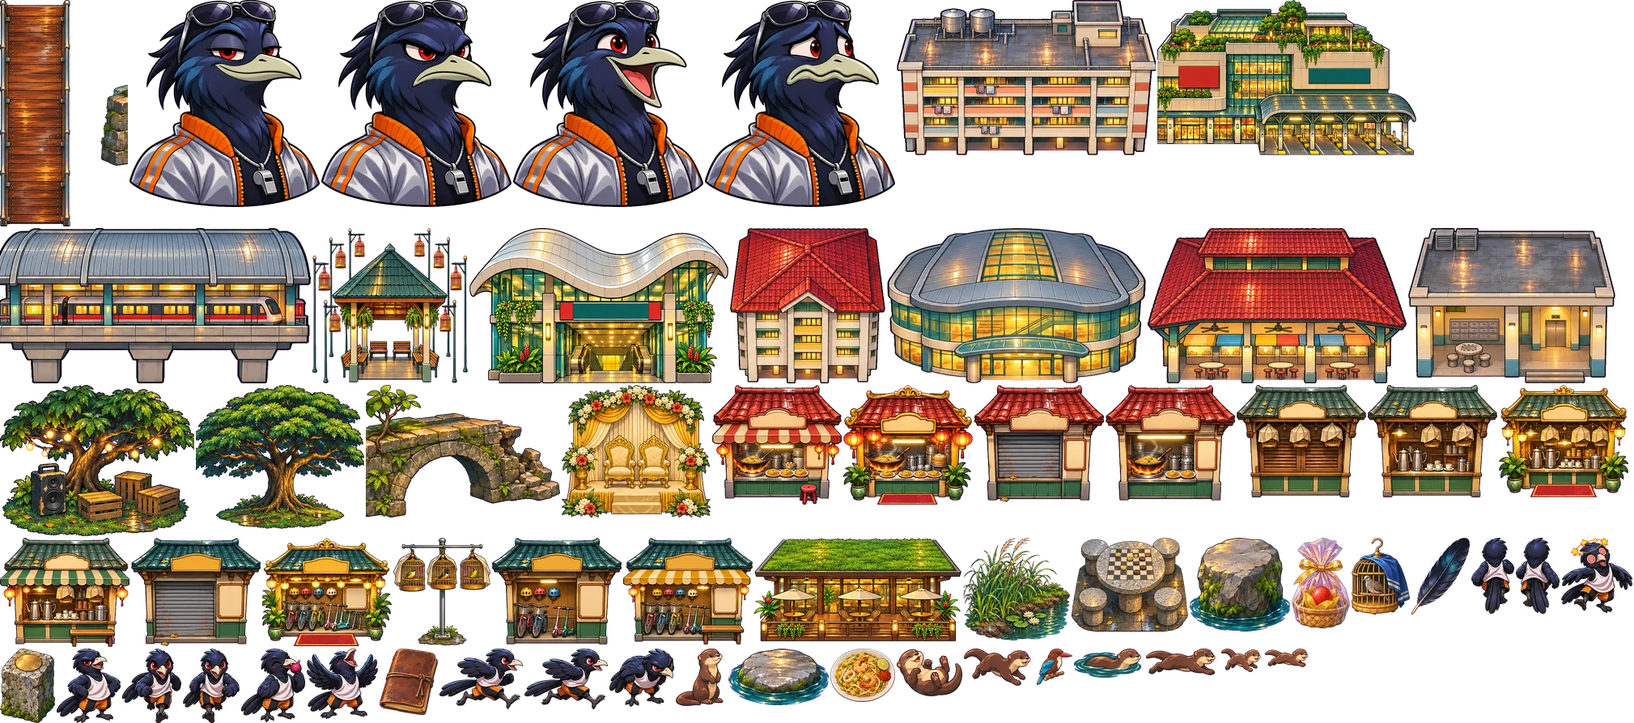
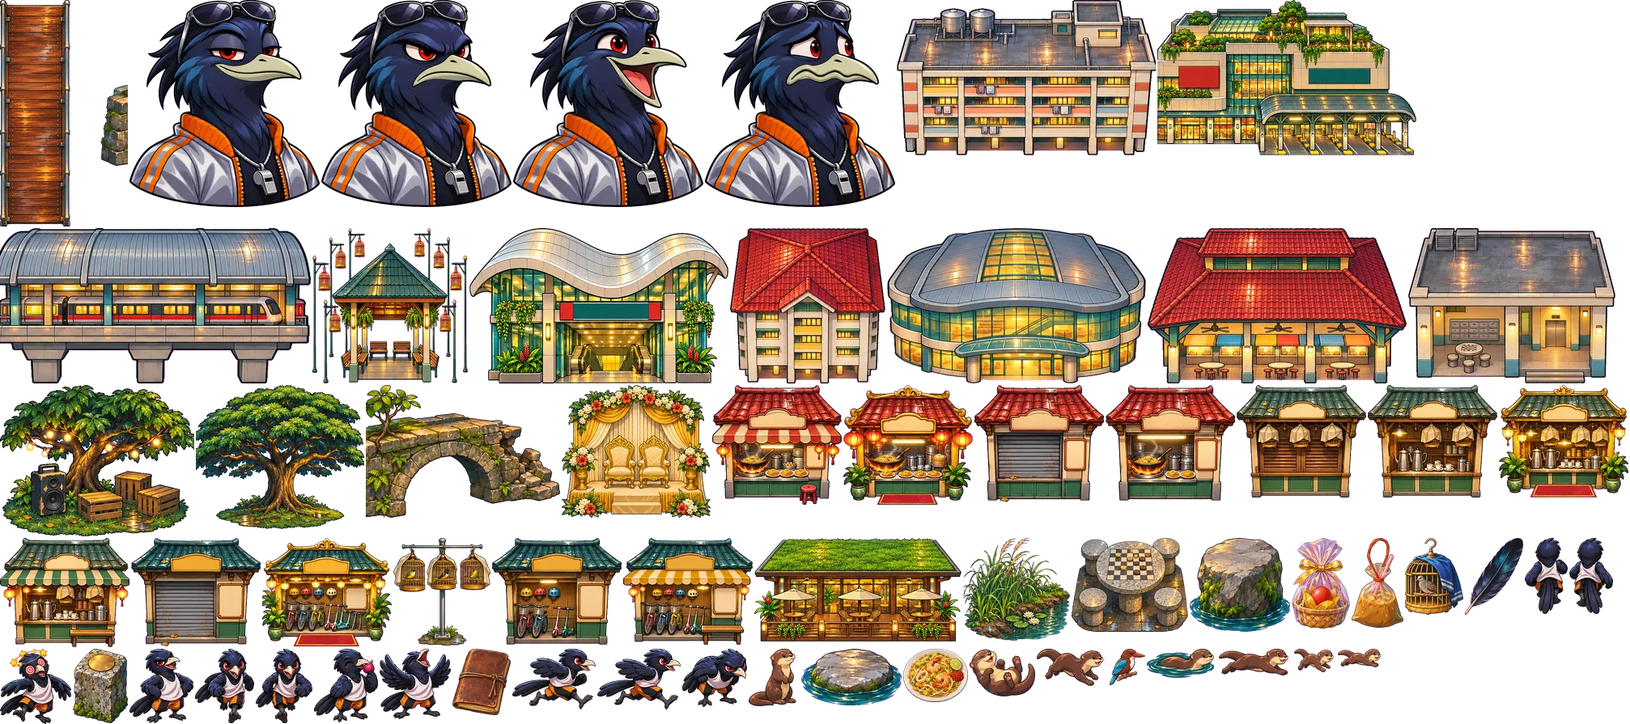
Jade Street pass 26: paint the kopi bag, clear the stands, older tests know Bishan
The Ang Mo Kio kopi round now carries a painted kopi in a bag (Codex,
packed into the Bishan atlas). The hokkien mee and bike hire stands move
a tile onto clear ground away from the market. Older tests walk Bishan
from its station, count its stations, bikes and properties, and allow
the extra twenty minutes the three new properties add to the empire.

diff --git a/lib/jade-art.ts b/lib/jade-art.ts
@@ -1,7 +1,7 @@
 // Generated by scripts/jade-art.py from the Codex paintings; do not edit by hand.
 // FRAMES: name -> [atlas, x, y, w, h] in atlas pixels (2 px per world unit). TEXTURES: seamless 256 px ground tiles.
 export const ATLASES = ['atlas-dora', 'atlas-enzo', 'atlas-dora2', 'atlas-enzo2', 'atlas-south', 'atlas-south2', 'atlas-empire', 'atlas-empire2', 'atlas-city2', 'atlas-far', 'atlas-far2', 'atlas-east', 'atlas-resort', 'atlas-resort2', 'atlas-east2', 'atlas-isle', 'atlas-isle2', 'atlas-land', 'atlas-cast-isle', 'atlas-cast-east', 'atlas-cast-resort', 'atlas-cast-far', 'atlas-cast-south', 'atlas-cast-town', 'atlas-city', 'atlas-rides', 'atlas-gear', 'atlas-jobs', 'atlas-aware', 'atlas-faces-isle', 'atlas-faces-east', 'atlas-faces-resort', 'atlas-faces-far', 'atlas-faces-south', 'atlas-faces-town', 'atlas-set', 'atlas-set2', 'atlas-folk', 'atlas-ui', 'atlas-sg', 'atlas-sg2', 'atlas-mg', 'atlas-props2', 'atlas-props', 'atlas-rides15', 'atlas-act16', 'atlas-cast16-far', 'atlas-cast16-south', 'atlas-stands16', 'atlas-lake16', 'atlas-ubin', 'atlas-boars', 'atlas-cast-ubin', 'atlas-act17', 'atlas-ui17', 'atlas-kallang', 'atlas-cast-kallang', 'atlas-act18', 'atlas-ui18', 'atlas-mandai', 'atlas-cast-mandai', 'atlas-act19', 'atlas-ui19', 'atlas-act20', 'atlas-gig20-south', 'atlas-gig20-east', 'atlas-gig20-far', 'atlas-ride20', 'atlas-lory19b', 'atlas-islands', 'atlas-cast-islands', 'atlas-act21', 'atlas-ui21', 'atlas-bukit', 'atlas-cast-bukit', 'atlas-act22', 'atlas-ui22', 'atlas-act23', 'atlas-gig23-south', 'atlas-gig23-ubin', 'atlas-gig23-kallang', 'atlas-gig23-islands', 'atlas-gig23-east', 'atlas-kranji', 'atlas-cast-kranji', 'atlas-act24', 'atlas-ui24', 'atlas-punggol', 'atlas-cast-punggol', 'atlas-act25', 'atlas-ui25', 'atlas-bishan', 'atlas-cast-bishan', 'atlas-act26', 'atlas-ui26'] as const;
-export const ATLAS_SIZE: Record<string, [number, number]> = {'atlas-ui26': [390, 125], 'atlas-act26': [1300, 113], 'atlas-cast-bishan': [2045, 744], 'atlas-bishan': [2019, 894], 'atlas-ui25': [827, 128], 'atlas-act25': [1316, 119], 'atlas-cast-punggol': [2024, 757], 'atlas-punggol': [2046, 1027], 'atlas-ui24': [992, 128], 'atlas-act24': [1204, 133], 'atlas-cast-kranji': [2043, 765], 'atlas-kranji': [2040, 1002], 'atlas-gig23-east': [702, 144], 'atlas-gig23-islands': [202, 120], 'atlas-gig23-kallang': [122, 92], 'atlas-gig23-ubin': [88, 120], 'atlas-gig23-south': [122, 102], 'atlas-act23': [782, 122], 'atlas-ui22': [1000, 128], 'atlas-act22': [1499, 125], 'atlas-cast-bukit': [2027, 624], 'atlas-bukit': [2036, 634], 'atlas-ui21': [960, 128], 'atlas-act21': [1604, 116], 'atlas-cast-islands': [2026, 742], 'atlas-islands': [2044, 1053], 'atlas-lory19b': [571, 137], 'atlas-ride20': [1575, 160], 'atlas-gig20-far': [236, 120], 'atlas-gig20-east': [122, 106], 'atlas-gig20-south': [328, 120], 'atlas-act20': [696, 127], 'atlas-ui19': [985, 128], 'atlas-act19': [1610, 132], 'atlas-cast-mandai': [1984, 645], 'atlas-mandai': [2048, 1013], 'atlas-ui18': [996, 128], 'atlas-act18': [1508, 120], 'atlas-cast-kallang': [2048, 648], 'atlas-kallang': [2044, 1530], 'atlas-ui17': [978, 128], 'atlas-act17': [1945, 239], 'atlas-cast-ubin': [2028, 774], 'atlas-boars': [2008, 229], 'atlas-ubin': [2019, 836], 'atlas-lake16': [864, 562], 'atlas-stands16': [1944, 333], 'atlas-cast16-south': [1423, 256], 'atlas-cast16-far': [1393, 256], 'atlas-act16': [1402, 113], 'atlas-rides15': [2048, 529], 'atlas-dora': [2048, 558], 'atlas-enzo': [2048, 558], 'atlas-dora2': [2048, 946], 'atlas-enzo2': [2048, 938], 'atlas-south': [2048, 1932], 'atlas-south2': [2048, 840], 'atlas-empire': [2048, 465], 'atlas-empire2': [2048, 1738], 'atlas-city2': [2048, 1928], 'atlas-far': [2048, 2448], 'atlas-far2': [2048, 2434], 'atlas-east': [2048, 1608], 'atlas-resort': [2048, 1092], 'atlas-resort2': [2048, 360], 'atlas-east2': [2048, 768], 'atlas-isle': [2048, 1802], 'atlas-isle2': [2048, 1135], 'atlas-land': [2048, 2308], 'atlas-cast-isle': [2048, 251], 'atlas-cast-east': [2048, 243], 'atlas-cast-resort': [2048, 145], 'atlas-cast-far': [2048, 267], 'atlas-cast-south': [2048, 234], 'atlas-cast-town': [2048, 1001], 'atlas-city': [2048, 4240], 'atlas-rides': [2048, 382], 'atlas-gear': [2048, 568], 'atlas-jobs': [2048, 1256], 'atlas-aware': [2048, 400], 'atlas-faces-isle': [2048, 514], 'atlas-faces-east': [2048, 772], 'atlas-faces-resort': [2048, 256], 'atlas-faces-far': [2048, 772], 'atlas-faces-south': [2048, 514], 'atlas-faces-town': [2048, 2814], 'atlas-set': [2048, 515], 'atlas-set2': [2048, 2406], 'atlas-folk': [2048, 2370], 'atlas-ui': [2048, 1793], 'atlas-sg': [2048, 1280], 'atlas-sg2': [2048, 398], 'atlas-mg': [2048, 1031], 'atlas-props2': [2048, 1474], 'atlas-props': [2048, 2074]};
+export const ATLAS_SIZE: Record<string, [number, number]> = {'atlas-ui26': [390, 125], 'atlas-act26': [1300, 113], 'atlas-cast-bishan': [2045, 744], 'atlas-bishan': [2014, 895], 'atlas-ui25': [827, 128], 'atlas-act25': [1316, 119], 'atlas-cast-punggol': [2024, 757], 'atlas-punggol': [2046, 1027], 'atlas-ui24': [992, 128], 'atlas-act24': [1204, 133], 'atlas-cast-kranji': [2043, 765], 'atlas-kranji': [2040, 1002], 'atlas-gig23-east': [702, 144], 'atlas-gig23-islands': [202, 120], 'atlas-gig23-kallang': [122, 92], 'atlas-gig23-ubin': [88, 120], 'atlas-gig23-south': [122, 102], 'atlas-act23': [782, 122], 'atlas-ui22': [1000, 128], 'atlas-act22': [1499, 125], 'atlas-cast-bukit': [2027, 624], 'atlas-bukit': [2036, 634], 'atlas-ui21': [960, 128], 'atlas-act21': [1604, 116], 'atlas-cast-islands': [2026, 742], 'atlas-islands': [2044, 1053], 'atlas-lory19b': [571, 137], 'atlas-ride20': [1575, 160], 'atlas-gig20-far': [236, 120], 'atlas-gig20-east': [122, 106], 'atlas-gig20-south': [328, 120], 'atlas-act20': [696, 127], 'atlas-ui19': [985, 128], 'atlas-act19': [1610, 132], 'atlas-cast-mandai': [1984, 645], 'atlas-mandai': [2048, 1013], 'atlas-ui18': [996, 128], 'atlas-act18': [1508, 120], 'atlas-cast-kallang': [2048, 648], 'atlas-kallang': [2044, 1530], 'atlas-ui17': [978, 128], 'atlas-act17': [1945, 239], 'atlas-cast-ubin': [2028, 774], 'atlas-boars': [2008, 229], 'atlas-ubin': [2019, 836], 'atlas-lake16': [864, 562], 'atlas-stands16': [1944, 333], 'atlas-cast16-south': [1423, 256], 'atlas-cast16-far': [1393, 256], 'atlas-act16': [1402, 113], 'atlas-rides15': [2048, 529], 'atlas-dora': [2048, 558], 'atlas-enzo': [2048, 558], 'atlas-dora2': [2048, 946], 'atlas-enzo2': [2048, 938], 'atlas-south': [2048, 1932], 'atlas-south2': [2048, 840], 'atlas-empire': [2048, 465], 'atlas-empire2': [2048, 1738], 'atlas-city2': [2048, 1928], 'atlas-far': [2048, 2448], 'atlas-far2': [2048, 2434], 'atlas-east': [2048, 1608], 'atlas-resort': [2048, 1092], 'atlas-resort2': [2048, 360], 'atlas-east2': [2048, 768], 'atlas-isle': [2048, 1802], 'atlas-isle2': [2048, 1135], 'atlas-land': [2048, 2308], 'atlas-cast-isle': [2048, 251], 'atlas-cast-east': [2048, 243], 'atlas-cast-resort': [2048, 145], 'atlas-cast-far': [2048, 267], 'atlas-cast-south': [2048, 234], 'atlas-cast-town': [2048, 1001], 'atlas-city': [2048, 4240], 'atlas-rides': [2048, 382], 'atlas-gear': [2048, 568], 'atlas-jobs': [2048, 1256], 'atlas-aware': [2048, 400], 'atlas-faces-isle': [2048, 514], 'atlas-faces-east': [2048, 772], 'atlas-faces-resort': [2048, 256], 'atlas-faces-far': [2048, 772], 'atlas-faces-south': [2048, 514], 'atlas-faces-town': [2048, 2814], 'atlas-set': [2048, 515], 'atlas-set2': [2048, 2406], 'atlas-folk': [2048, 2370], 'atlas-ui': [2048, 1793], 'atlas-sg': [2048, 1280], 'atlas-sg2': [2048, 398], 'atlas-mg': [2048, 1031], 'atlas-props2': [2048, 1474], 'atlas-props': [2048, 2074]};
 export const FRAMES: Record<string, [number, number, number, number, number]> = {
   'angpao': [43, 784, 2018, 44, 34],
   'atom': [5, 316, 432, 140, 168],
@@ -3294,48 +3294,49 @@ export const FRAMES: Record<string, [number, number, number, number, number]> = 
   'bs-birdpole': [91, 486, 665, 120, 133],
   'bs-birdshelter': [91, 386, 282, 192, 192],
   'bs-bishanstn': [91, 580, 282, 320, 192],
-  'bs-book': [91, 469, 802, 72, 82],
+  'bs-book': [91, 559, 802, 72, 82],
   'bs-bshhdb': [91, 902, 282, 192, 192],
   'bs-cafe': [91, 932, 665, 256, 128],
-  'bs-cage': [91, 1670, 665, 72, 95],
+  'bs-cage': [91, 1736, 665, 72, 95],
   'bs-chess': [91, 1324, 665, 144, 116],
-  'bs-feather': [91, 1744, 665, 72, 95],
+  'bs-feather': [91, 1810, 665, 72, 95],
   'bs-footbridge': [91, 0, 0, 158, 280],
   'bs-j8': [91, 1096, 282, 320, 192],
-  'bs-kingfisher': [91, 1281, 802, 44, 45],
+  'bs-kingfisher': [91, 1371, 802, 44, 45],
   'bs-koelcamp': [91, 0, 476, 240, 187],
+  'bs-kopi': [91, 1670, 665, 64, 111],
   'bs-market': [91, 1418, 282, 320, 192],
-  'bs-mee': [91, 1026, 802, 80, 66],
+  'bs-mee': [91, 1116, 802, 80, 66],
   'bs-oldbridge': [91, 452, 476, 240, 164],
-  'bs-otter-0': [91, 1191, 802, 88, 46],
-  'bs-otter-1': [91, 1416, 802, 91, 33],
-  'bs-otter-roll': [91, 1108, 802, 81, 59],
-  'bs-otter-sit': [91, 835, 802, 63, 71],
-  'bs-otter-swim': [91, 1327, 802, 87, 36],
+  'bs-otter-0': [91, 1281, 802, 88, 46],
+  'bs-otter-1': [91, 1506, 802, 91, 33],
+  'bs-otter-roll': [91, 1198, 802, 81, 59],
+  'bs-otter-sit': [91, 925, 802, 63, 71],
+  'bs-otter-swim': [91, 1417, 802, 87, 36],
   'bs-pelamin': [91, 694, 476, 184, 164],
-  'bs-pup-0': [91, 1509, 802, 52, 29],
-  'bs-pup-1': [91, 1563, 802, 57, 23],
+  'bs-pup-0': [91, 1599, 802, 52, 29],
+  'bs-pup-1': [91, 1653, 802, 57, 23],
   'bs-raintree': [91, 242, 476, 208, 178],
   'bs-reeds': [91, 1190, 665, 132, 127],
   'bs-stonehi': [91, 1470, 665, 124, 116],
-  'bs-stonelo': [91, 900, 802, 124, 70],
-  'bs-survey': [91, 0, 802, 68, 92],
+  'bs-stonelo': [91, 990, 802, 124, 70],
+  'bs-survey': [91, 90, 802, 68, 92],
   'bs-voiddeck': [91, 1740, 282, 256, 192],
   'face-koel': [91, 160, 0, 235, 256],
   'face-koel-cross': [91, 397, 0, 235, 256],
   'face-koel-happy': [91, 634, 0, 235, 256],
   'face-koel-worried': [91, 871, 0, 235, 256],
-  'koel-dizzy': [91, 1929, 665, 88, 93],
-  'koel-munch': [91, 298, 802, 79, 91],
-  'koel-peer': [91, 753, 802, 80, 72],
-  'koel-run-0': [91, 543, 802, 103, 75],
-  'koel-run-1': [91, 648, 802, 103, 75],
-  'koel-sing': [91, 379, 802, 88, 87],
-  'koel-taunt': [91, 70, 802, 79, 92],
-  'koel-walk-down-0': [91, 151, 802, 73, 92],
-  'koel-walk-down-1': [91, 226, 802, 70, 92],
-  'koel-walk-up-0': [91, 1818, 665, 53, 94],
-  'koel-walk-up-1': [91, 1873, 665, 54, 94],
+  'koel-dizzy': [91, 0, 802, 88, 93],
+  'koel-munch': [91, 388, 802, 79, 91],
+  'koel-peer': [91, 843, 802, 80, 72],
+  'koel-run-0': [91, 633, 802, 103, 75],
+  'koel-run-1': [91, 738, 802, 103, 75],
+  'koel-sing': [91, 469, 802, 88, 87],
+  'koel-taunt': [91, 160, 802, 79, 92],
+  'koel-walk-down-0': [91, 241, 802, 73, 92],
+  'koel-walk-down-1': [91, 316, 802, 70, 92],
+  'koel-walk-up-0': [91, 1884, 665, 53, 94],
+  'koel-walk-up-1': [91, 1939, 665, 54, 94],
   'face-kijang': [92, 0, 0, 224, 256],
   'face-kijang-cross': [92, 226, 0, 223, 256],
   'face-kijang-happy': [92, 451, 0, 223, 256],
@@ -6701,6 +6702,7 @@ export const FILL: Record<string, number> = {
   'bs-j8': 0.844,
   'bs-kingfisher': 0.476,
   'bs-koelcamp': 0.723,
+  'bs-kopi': 0.511,
   'bs-market': 0.857,
   'bs-mee': 0.8,
   'bs-oldbridge': 0.529,
@@ -6798,4 +6800,4 @@ export const FILL: Record<string, number> = {
 export const TEXTURES = ['road', 'walk', 'plaza', 'grass', 'canal', 'plank', 'temple', 'sea', 'dock', 'neon', 'path', 'cobble', 'xway', 'hdb', 'rubber', 'granite', 'deck', 'bay', 'india', 'glam', 'sand', 'resort', 'lagoon', 'fort', 'katong', 'orchard', 'tarmac', 'cycle', 'jewel', 'changi', 'tiong', 'quay', 'jurong', 'garden', 'dirt', 'kampong', 'mud', 'forest', 'quarry', 'rock', 'hub', 'prom', 'apron', 'basin', 'resv', 'board', 'jungle', 'laterite', 'reef', 'shoal', 'coral', 'islepath', 'summit', 'lawn', 'railbed', 'swan', 'mudflat', 'mangrove', 'field', 'woods', 'marsh', 'needles', 'pgdeck', 'riverbank', 'amk', 'shallows'] as const;
 export const PLAIN: Record<string, [number, number]> = {'bg-stall-bishan': [1536, 1024], 'bg-chapter-17': [1536, 1024], 'bg-stall-punggol': [1536, 1024], 'bg-chapter-16': [1536, 1024], 'bg-stall-kranji': [1536, 1024], 'bg-chapter-15': [1536, 1024], 'bg-stall-bukit': [1536, 1024], 'bg-chapter-14': [1536, 1024], 'bg-stall-islands': [1536, 1024], 'bg-chapter-13': [1536, 1024], 'bg-stall-mandai': [1536, 1024], 'bg-chapter-12': [1536, 1024], 'bg-stall-kallang': [1536, 1024], 'bg-chapter-11': [1536, 1024], 'bg-stall-pulau': [1536, 1024], 'bg-chapter-10': [1536, 1024], 'bg-title': [1536, 1024], 'bg-mg-lock': [1280, 853], 'bg-mg-wire': [1280, 853], 'bg-mg-switch': [1280, 853], 'bg-mg-wok': [1280, 853], 'bg-mg-board': [1280, 853], 'bg-mg-haggle': [1280, 853], 'bg-mg-kopi': [1280, 853], 'bg-mg-safe': [1280, 853], 'bg-map-paper': [1024, 683], 'bg-loading': [1280, 853], 'bg-stall-market': [1280, 853], 'bg-stall-temple': [1280, 853], 'bg-stall-canal': [1280, 853], 'bg-stall-docks': [1280, 853], 'bg-stall-arcade': [1280, 853], 'bg-story-1': [1280, 853], 'bg-story-2': [1280, 853], 'bg-story-3': [1280, 853], 'bg-story-4': [1280, 853], 'bg-chapter-1': [1280, 853], 'bg-chapter-2': [1280, 853], 'bg-chapter-3': [1280, 853], 'bg-chapter-4': [1280, 853], 'bg-chapter-5': [1280, 853], 'bg-end-1': [1280, 853], 'bg-end-2': [1280, 853], 'bg-end-3': [1280, 853], 'bg-gadget-shop': [1280, 853], 'bg-chapter-6': [1280, 853], 'bg-end-4': [1280, 853], 'bg-mrt-ride': [1280, 853], 'bg-stall-heartland': [1280, 853], 'bg-stall-bay': [1280, 853], 'bg-chapter-7': [1280, 853], 'bg-end-5': [1280, 853], 'bg-cable-ride': [1280, 853], 'bg-stall-india': [1280, 853], 'bg-stall-glam': [1280, 853], 'bg-stall-resort': [1280, 853], 'bg-empire': [1280, 853], 'bg-chapter-8': [1280, 853], 'bg-end-6': [1280, 853], 'bg-stall-katong': [1280, 853], 'bg-stall-orchard': [1280, 853], 'bg-stall-changi': [1280, 853], 'bg-chapter-9': [1280, 853], 'bg-end-7': [1280, 853], 'bg-stall-tiong': [1280, 853], 'bg-stall-quay': [1280, 853], 'bg-stall-jurong': [1280, 853]};
 /** a content hash of every file in public/art/jade-street/, sent as ?v= so the art can be cached for a year */
-export const VER: Record<string, string> = {'bg-stall-bishan': '5d3cc0b505', 'bg-chapter-17': '475e71e6a3', 'tex-shallows': '15e4707219', 'tex-amk': 'c67c43b90e', 'tex-riverbank': '71b17e23da', 'atlas-ui26': 'fec386184e', 'atlas-act26': 'ba33dc09ef', 'atlas-cast-bishan': '2e8841f911', 'atlas-bishan': '7cc72aade1', 'bg-stall-punggol': '67b3927749', 'bg-chapter-16': '579f73e4df', 'tex-pgdeck': 'f6d3f96acb', 'tex-needles': 'd46d0dfbe1', 'tex-marsh': '6971e38466', 'atlas-ui25': 'e2a1844f25', 'atlas-act25': 'f92495e8cd', 'atlas-cast-punggol': 'b4ae147d75', 'atlas-punggol': 'f5fc32eb0d', 'bg-stall-kranji': '8d1dae3433', 'bg-chapter-15': '20c580d1e8', 'tex-woods': '45c833f0f4', 'tex-field': 'f9a18eb33a', 'tex-mangrove': '4d84073b6f', 'tex-mudflat': '3a5bc01b6f', 'atlas-ui24': '97e74474b2', 'atlas-act24': 'f7dc5e45d4', 'atlas-cast-kranji': 'ae4deb1087', 'atlas-kranji': 'a90b6afcfb', 'atlas-gig23-east': '6936bdb3a1', 'atlas-gig23-islands': 'f4d2f73c4d', 'atlas-gig23-kallang': '5d531d4cd7', 'atlas-gig23-ubin': 'a8ceddb7fa', 'atlas-gig23-south': 'd8f26eba22', 'atlas-act23': 'fc29dc5744', 'bg-stall-bukit': 'c79706532a', 'bg-chapter-14': 'a03df1ec43', 'tex-swan': '02a59a37de', 'tex-railbed': '80432d589b', 'tex-lawn': '60fd9238c3', 'tex-summit': '3830fd0706', 'atlas-ui22': '417b9585e1', 'atlas-act22': 'ae58cff61a', 'atlas-cast-bukit': '24082289cf', 'atlas-bukit': 'ffb27f43e0', 'bg-stall-islands': 'aaf5f6364e', 'bg-chapter-13': 'a68bda0239', 'tex-islepath': '9e765df440', 'tex-coral': 'f3489bf776', 'tex-shoal': '750537f5a5', 'tex-reef': 'f12b8ea025', 'atlas-ui21': 'ed25c56d11', 'atlas-act21': 'c93a842b52', 'atlas-cast-islands': 'ba6923d5e9', 'atlas-islands': '152fd5a6ff', 'atlas-lory19b': '94fbb8e400', 'atlas-ride20': '5b910a69db', 'atlas-gig20-far': 'b42287f455', 'atlas-gig20-east': 'b26c1e689b', 'atlas-gig20-south': 'b8f95d1227', 'atlas-act20': '83ddd61bdf', 'bg-stall-mandai': '6278997d0f', 'bg-chapter-12': '894a1d1d54', 'tex-laterite': 'cc9853a61a', 'tex-jungle': 'cc7a6f824d', 'tex-board': '1f7ff81fdb', 'tex-resv': '971019057d', 'atlas-ui19': '12f1c6a724', 'atlas-act19': '226ccba82d', 'atlas-cast-mandai': 'ebdb6eccb0', 'atlas-mandai': 'fc6c271556', 'bg-stall-kallang': '5f185fe36b', 'bg-chapter-11': '12fb44814b', 'tex-basin': 'c9c1f2261e', 'tex-apron': '323078ac62', 'tex-prom': '5611f4129c', 'tex-hub': '7886be57ab', 'atlas-ui18': '43e4150895', 'atlas-act18': '51b4e5b9eb', 'atlas-cast-kallang': '178f7a33a4', 'atlas-kallang': 'fb54dd73ba', 'bg-stall-pulau': 'fb3d104962', 'bg-chapter-10': '8f7697f148', 'tex-rock': 'e14a0fa8a2', 'tex-quarry': 'bf95ef713f', 'tex-forest': '86584e2a5c', 'tex-mud': '05f8765082', 'tex-kampong': 'b8131c6fd2', 'tex-dirt': '12ab24649e', 'atlas-ui17': 'dd53c38d34', 'atlas-act17': 'da2d18204c', 'atlas-cast-ubin': '42901e7b58', 'atlas-boars': 'c1ea6f3cc5', 'atlas-ubin': 'ac9516d9b3', 'atlas-lake16': 'b9863c6890', 'atlas-stands16': '73a81e072c', 'atlas-cast16-south': 'b9dd583554', 'atlas-cast16-far': '066ca3c6b6', 'atlas-act16': '2bb55cf0ae', 'atlas-rides15': 'fe909ed773', 'atlas-aware': '6c05ff527e', 'atlas-cast-east': '6993b3868c', 'atlas-cast-far': 'be68f6fb67', 'atlas-cast-isle': 'd6137093d7', 'atlas-cast-resort': '04a51d1d1f', 'atlas-cast-south': '73c3edc72c', 'atlas-cast-town': 'e3e8483794', 'atlas-city': '9d3e5e0e1e', 'atlas-city2': 'a7705a2a8c', 'atlas-dora': 'b9ec3e274b', 'atlas-dora2': '43fff573e2', 'atlas-east': 'c9c950a198', 'atlas-east2': 'b28ab30119', 'atlas-empire': '356b94eb1d', 'atlas-empire2': 'c5f49739fe', 'atlas-enzo': 'bedcb9aa04', 'atlas-enzo2': '698fbcee4a', 'atlas-faces-east': '993c08866d', 'atlas-faces-far': '0b5b95dbbb', 'atlas-faces-isle': '65004845ea', 'atlas-faces-resort': 'f4133d9046', 'atlas-faces-south': '6fcdc446e1', 'atlas-faces-town': '93652e9860', 'atlas-far': '83c801daa9', 'atlas-far2': 'cd584caccd', 'atlas-folk': 'b236b797c5', 'atlas-gear': 'e7536b9f8c', 'atlas-isle': '4fecc0ca2d', 'atlas-isle2': 'b4715aee8a', 'atlas-jobs': 'c3b00cb13a', 'atlas-land': 'e7dd7e81b0', 'atlas-mg': '64874661f8', 'atlas-props': '512513e99b', 'atlas-props2': 'e91c1da3d2', 'atlas-resort': '8bee077388', 'atlas-resort2': 'cadf754c98', 'atlas-rides': 'd0cce2048a', 'atlas-set': 'a3616aef03', 'atlas-set2': 'bdfe1854db', 'atlas-sg': '11d257b248', 'atlas-sg2': 'b7bd370468', 'atlas-south': 'dc4ba8a7e4', 'atlas-south2': '4964999b2d', 'atlas-ui': '39055c0ebe', 'bg-cable-ride': '0018d7f206', 'bg-chapter-1': '39e95b70e2', 'bg-chapter-2': 'c6eae4e23b', 'bg-chapter-3': 'e473dea1ed', 'bg-chapter-4': '2d8f49eb39', 'bg-chapter-5': '46e0c818bf', 'bg-chapter-6': '1cadb76848', 'bg-chapter-7': '151661fa10', 'bg-chapter-8': '8de0d54485', 'bg-chapter-9': 'fedfc885e5', 'bg-empire': '9059bb5b25', 'bg-end-1': '41d3829fd8', 'bg-end-2': '7a6979ac8b', 'bg-end-3': '0f098b8291', 'bg-end-4': '6e947828ba', 'bg-end-5': 'f23fd9f478', 'bg-end-6': 'f2e14dcedb', 'bg-end-7': '9811890a23', 'bg-gadget-shop': '9e43ee5ca2', 'bg-loading': '74ca740d3f', 'bg-map-paper': '196bbb2f61', 'bg-mg-board': '58c9ac51f6', 'bg-mg-haggle': '0be12eb299', 'bg-mg-kopi': '2d37fe15be', 'bg-mg-lock': '54f79c464e', 'bg-mg-safe': 'd992489153', 'bg-mg-switch': 'dfb6f981ad', 'bg-mg-wire': '2fb8c43ff3', 'bg-mg-wok': '5ec96291c1', 'bg-mrt-ride': '2c3fcf70b2', 'bg-stall-arcade': '4069370f26', 'bg-stall-bay': 'ead1c42631', 'bg-stall-canal': '9fa618250b', 'bg-stall-changi': 'f23566cda1', 'bg-stall-docks': 'd2757a418e', 'bg-stall-glam': '0318c8fa67', 'bg-stall-heartland': '8e2d25dae4', 'bg-stall-india': '85a7343c38', 'bg-stall-jurong': '610c6341bd', 'bg-stall-katong': '3458759355', 'bg-stall-market': '2ee08500da', 'bg-stall-orchard': 'e36c5aefb2', 'bg-stall-quay': 'c920af8561', 'bg-stall-resort': '2be8064c28', 'bg-stall-temple': '8d770b42ad', 'bg-stall-tiong': '7dc0dd1982', 'bg-story-1': '495a2313c5', 'bg-story-2': '38dc31aa0a', 'bg-story-3': 'f0d40a8b40', 'bg-story-4': '9e776c0031', 'bg-title': 'f7074c001b', 'tex-bay': '2b2ead15a6', 'tex-canal': '984c616bc3', 'tex-changi': 'd0d210aa4d', 'tex-cobble': 'ffa35bac89', 'tex-cycle': '4e8d4943bd', 'tex-deck': 'feaa49ab7e', 'tex-dock': '56cedf773c', 'tex-fort': '6cfe70f213', 'tex-garden': '8de5353f74', 'tex-glam': '12aa23af36', 'tex-granite': 'b5d611ddf5', 'tex-grass': '2b40c03b43', 'tex-hdb': 'cfe16c39ff', 'tex-india': '322ec75d2a', 'tex-jewel': 'f413902539', 'tex-jurong': 'dce899eb4a', 'tex-katong': '5ca9995443', 'tex-lagoon': '7194978be9', 'tex-neon': '7cefd7035d', 'tex-orchard': '71c2f97876', 'tex-path': '7185e5fd49', 'tex-plank': '39a9bfb3c3', 'tex-plaza': 'd818f31ee6', 'tex-quay': '7b61a601e8', 'tex-resort': '9323ea7a70', 'tex-road': 'df2a879824', 'tex-rubber': 'af7f675c91', 'tex-sand': 'f2b51bd2fa', 'tex-sea': '33c4a10f2d', 'tex-tarmac': 'e44e0bef07', 'tex-temple': '2d4d31a220', 'tex-tiong': '53a74b805f', 'tex-walk': '7059e943c6', 'tex-xway': 'b394d5c6d0', 'ui-btn-jade': '0575db29d5', 'ui-btn-red': 'b38696fe12', 'ui-lantern-off': 'aa12a882a8', 'ui-lantern-on': 'ae946067fe', 'ui-map-frame': 'ebc4710313', 'ui-plaque-jade': 'e6217f6c1b', 'ui-plaque-red': 'a8a020c2b2', 'ui-ring': 'f0ab8b644c'};
+export const VER: Record<string, string> = {'bg-stall-bishan': '5d3cc0b505', 'bg-chapter-17': '475e71e6a3', 'tex-shallows': '15e4707219', 'tex-amk': 'c67c43b90e', 'tex-riverbank': '71b17e23da', 'atlas-ui26': 'fec386184e', 'atlas-act26': 'ba33dc09ef', 'atlas-cast-bishan': '2e8841f911', 'atlas-bishan': '1a11a5b5af', 'bg-stall-punggol': '67b3927749', 'bg-chapter-16': '579f73e4df', 'tex-pgdeck': 'f6d3f96acb', 'tex-needles': 'd46d0dfbe1', 'tex-marsh': '6971e38466', 'atlas-ui25': 'e2a1844f25', 'atlas-act25': 'f92495e8cd', 'atlas-cast-punggol': 'b4ae147d75', 'atlas-punggol': 'f5fc32eb0d', 'bg-stall-kranji': '8d1dae3433', 'bg-chapter-15': '20c580d1e8', 'tex-woods': '45c833f0f4', 'tex-field': 'f9a18eb33a', 'tex-mangrove': '4d84073b6f', 'tex-mudflat': '3a5bc01b6f', 'atlas-ui24': '97e74474b2', 'atlas-act24': 'f7dc5e45d4', 'atlas-cast-kranji': 'ae4deb1087', 'atlas-kranji': 'a90b6afcfb', 'atlas-gig23-east': '6936bdb3a1', 'atlas-gig23-islands': 'f4d2f73c4d', 'atlas-gig23-kallang': '5d531d4cd7', 'atlas-gig23-ubin': 'a8ceddb7fa', 'atlas-gig23-south': 'd8f26eba22', 'atlas-act23': 'fc29dc5744', 'bg-stall-bukit': 'c79706532a', 'bg-chapter-14': 'a03df1ec43', 'tex-swan': '02a59a37de', 'tex-railbed': '80432d589b', 'tex-lawn': '60fd9238c3', 'tex-summit': '3830fd0706', 'atlas-ui22': '417b9585e1', 'atlas-act22': 'ae58cff61a', 'atlas-cast-bukit': '24082289cf', 'atlas-bukit': 'ffb27f43e0', 'bg-stall-islands': 'aaf5f6364e', 'bg-chapter-13': 'a68bda0239', 'tex-islepath': '9e765df440', 'tex-coral': 'f3489bf776', 'tex-shoal': '750537f5a5', 'tex-reef': 'f12b8ea025', 'atlas-ui21': 'ed25c56d11', 'atlas-act21': 'c93a842b52', 'atlas-cast-islands': 'ba6923d5e9', 'atlas-islands': '152fd5a6ff', 'atlas-lory19b': '94fbb8e400', 'atlas-ride20': '5b910a69db', 'atlas-gig20-far': 'b42287f455', 'atlas-gig20-east': 'b26c1e689b', 'atlas-gig20-south': 'b8f95d1227', 'atlas-act20': '83ddd61bdf', 'bg-stall-mandai': '6278997d0f', 'bg-chapter-12': '894a1d1d54', 'tex-laterite': 'cc9853a61a', 'tex-jungle': 'cc7a6f824d', 'tex-board': '1f7ff81fdb', 'tex-resv': '971019057d', 'atlas-ui19': '12f1c6a724', 'atlas-act19': '226ccba82d', 'atlas-cast-mandai': 'ebdb6eccb0', 'atlas-mandai': 'fc6c271556', 'bg-stall-kallang': '5f185fe36b', 'bg-chapter-11': '12fb44814b', 'tex-basin': 'c9c1f2261e', 'tex-apron': '323078ac62', 'tex-prom': '5611f4129c', 'tex-hub': '7886be57ab', 'atlas-ui18': '43e4150895', 'atlas-act18': '51b4e5b9eb', 'atlas-cast-kallang': '178f7a33a4', 'atlas-kallang': 'fb54dd73ba', 'bg-stall-pulau': 'fb3d104962', 'bg-chapter-10': '8f7697f148', 'tex-rock': 'e14a0fa8a2', 'tex-quarry': 'bf95ef713f', 'tex-forest': '86584e2a5c', 'tex-mud': '05f8765082', 'tex-kampong': 'b8131c6fd2', 'tex-dirt': '12ab24649e', 'atlas-ui17': 'dd53c38d34', 'atlas-act17': 'da2d18204c', 'atlas-cast-ubin': '42901e7b58', 'atlas-boars': 'c1ea6f3cc5', 'atlas-ubin': 'ac9516d9b3', 'atlas-lake16': 'b9863c6890', 'atlas-stands16': '73a81e072c', 'atlas-cast16-south': 'b9dd583554', 'atlas-cast16-far': '066ca3c6b6', 'atlas-act16': '2bb55cf0ae', 'atlas-rides15': 'fe909ed773', 'atlas-aware': '6c05ff527e', 'atlas-cast-east': '6993b3868c', 'atlas-cast-far': 'be68f6fb67', 'atlas-cast-isle': 'd6137093d7', 'atlas-cast-resort': '04a51d1d1f', 'atlas-cast-south': '73c3edc72c', 'atlas-cast-town': 'e3e8483794', 'atlas-city': '9d3e5e0e1e', 'atlas-city2': 'a7705a2a8c', 'atlas-dora': 'b9ec3e274b', 'atlas-dora2': '43fff573e2', 'atlas-east': 'c9c950a198', 'atlas-east2': 'b28ab30119', 'atlas-empire': '356b94eb1d', 'atlas-empire2': 'c5f49739fe', 'atlas-enzo': 'bedcb9aa04', 'atlas-enzo2': '698fbcee4a', 'atlas-faces-east': '993c08866d', 'atlas-faces-far': '0b5b95dbbb', 'atlas-faces-isle': '65004845ea', 'atlas-faces-resort': 'f4133d9046', 'atlas-faces-south': '6fcdc446e1', 'atlas-faces-town': '93652e9860', 'atlas-far': '83c801daa9', 'atlas-far2': 'cd584caccd', 'atlas-folk': 'b236b797c5', 'atlas-gear': 'e7536b9f8c', 'atlas-isle': '4fecc0ca2d', 'atlas-isle2': 'b4715aee8a', 'atlas-jobs': 'c3b00cb13a', 'atlas-land': 'e7dd7e81b0', 'atlas-mg': '64874661f8', 'atlas-props': '512513e99b', 'atlas-props2': 'e91c1da3d2', 'atlas-resort': '8bee077388', 'atlas-resort2': 'cadf754c98', 'atlas-rides': 'd0cce2048a', 'atlas-set': 'a3616aef03', 'atlas-set2': 'bdfe1854db', 'atlas-sg': '11d257b248', 'atlas-sg2': 'b7bd370468', 'atlas-south': 'dc4ba8a7e4', 'atlas-south2': '4964999b2d', 'atlas-ui': '39055c0ebe', 'bg-cable-ride': '0018d7f206', 'bg-chapter-1': '39e95b70e2', 'bg-chapter-2': 'c6eae4e23b', 'bg-chapter-3': 'e473dea1ed', 'bg-chapter-4': '2d8f49eb39', 'bg-chapter-5': '46e0c818bf', 'bg-chapter-6': '1cadb76848', 'bg-chapter-7': '151661fa10', 'bg-chapter-8': '8de0d54485', 'bg-chapter-9': 'fedfc885e5', 'bg-empire': '9059bb5b25', 'bg-end-1': '41d3829fd8', 'bg-end-2': '7a6979ac8b', 'bg-end-3': '0f098b8291', 'bg-end-4': '6e947828ba', 'bg-end-5': 'f23fd9f478', 'bg-end-6': 'f2e14dcedb', 'bg-end-7': '9811890a23', 'bg-gadget-shop': '9e43ee5ca2', 'bg-loading': '74ca740d3f', 'bg-map-paper': '196bbb2f61', 'bg-mg-board': '58c9ac51f6', 'bg-mg-haggle': '0be12eb299', 'bg-mg-kopi': '2d37fe15be', 'bg-mg-lock': '54f79c464e', 'bg-mg-safe': 'd992489153', 'bg-mg-switch': 'dfb6f981ad', 'bg-mg-wire': '2fb8c43ff3', 'bg-mg-wok': '5ec96291c1', 'bg-mrt-ride': '2c3fcf70b2', 'bg-stall-arcade': '4069370f26', 'bg-stall-bay': 'ead1c42631', 'bg-stall-canal': '9fa618250b', 'bg-stall-changi': 'f23566cda1', 'bg-stall-docks': 'd2757a418e', 'bg-stall-glam': '0318c8fa67', 'bg-stall-heartland': '8e2d25dae4', 'bg-stall-india': '85a7343c38', 'bg-stall-jurong': '610c6341bd', 'bg-stall-katong': '3458759355', 'bg-stall-market': '2ee08500da', 'bg-stall-orchard': 'e36c5aefb2', 'bg-stall-quay': 'c920af8561', 'bg-stall-resort': '2be8064c28', 'bg-stall-temple': '8d770b42ad', 'bg-stall-tiong': '7dc0dd1982', 'bg-story-1': '495a2313c5', 'bg-story-2': '38dc31aa0a', 'bg-story-3': 'f0d40a8b40', 'bg-story-4': '9e776c0031', 'bg-title': 'f7074c001b', 'tex-bay': '2b2ead15a6', 'tex-canal': '984c616bc3', 'tex-changi': 'd0d210aa4d', 'tex-cobble': 'ffa35bac89', 'tex-cycle': '4e8d4943bd', 'tex-deck': 'feaa49ab7e', 'tex-dock': '56cedf773c', 'tex-fort': '6cfe70f213', 'tex-garden': '8de5353f74', 'tex-glam': '12aa23af36', 'tex-granite': 'b5d611ddf5', 'tex-grass': '2b40c03b43', 'tex-hdb': 'cfe16c39ff', 'tex-india': '322ec75d2a', 'tex-jewel': 'f413902539', 'tex-jurong': 'dce899eb4a', 'tex-katong': '5ca9995443', 'tex-lagoon': '7194978be9', 'tex-neon': '7cefd7035d', 'tex-orchard': '71c2f97876', 'tex-path': '7185e5fd49', 'tex-plank': '39a9bfb3c3', 'tex-plaza': 'd818f31ee6', 'tex-quay': '7b61a601e8', 'tex-resort': '9323ea7a70', 'tex-road': 'df2a879824', 'tex-rubber': 'af7f675c91', 'tex-sand': 'f2b51bd2fa', 'tex-sea': '33c4a10f2d', 'tex-tarmac': 'e44e0bef07', 'tex-temple': '2d4d31a220', 'tex-tiong': '53a74b805f', 'tex-walk': '7059e943c6', 'tex-xway': 'b394d5c6d0', 'ui-btn-jade': '0575db29d5', 'ui-btn-red': 'b38696fe12', 'ui-lantern-off': 'aa12a882a8', 'ui-lantern-on': 'ae946067fe', 'ui-map-frame': 'ebc4710313', 'ui-plaque-jade': 'e6217f6c1b', 'ui-plaque-red': 'a8a020c2b2', 'ui-ring': 'f0ab8b644c'};

diff --git a/lib/jade-gigs20.ts b/lib/jade-gigs20.ts
@@ -76,7 +76,7 @@ export function gig20Steps(kind: string, home: [number, number]): { steps: Step[
     case 'river-taxi': return S([{ t: 'ride', kind: 'boat', near: [303, 103], label: 'Jump in the bumboat at the steps by Read Bridge' }, { t: 'race', ride: 'boat', time: 70, marks: [[305, 103], [293, 105], [314, 106], [327, 104], [316, 105]], label: 'Steer the river taxi past every jetty marker' }], 75);
     case 'lanterns': return S([{ t: 'rounds', act: 'hang', item: 'moon-lantern', what: 'lantern', drops: [[206, 109], [208, 112], [200, 120], [222, 113], [210, 124]], time: 80, label: 'Hang a lantern on each empty hook round the Chinese Garden' }], 70);
     case 'ubin-loop': return S([{ t: 'ride', kind: 'bike', near: 'bikes-ubin', label: 'Take a bike from the rack (E)' }, { t: 'race', ride: 'bike', time: 70, marks: [[344, 117], [352, 117], [355, 113], [359, 106], [355, 108], [350, 113], [343, 113]], label: 'Ride every flag round the island loop' }], 70);
-    case 'amk-kopi': return S([{ t: 'rounds', act: 'serve', item: 'kopi', what: 'kopi in a bag', drops: [BS(36, 6), BS(41, 6), BS(47, 6), BS(50, 4), BS(44, 8)], who: ['goose', 'turtle', 'cat', 'hedgehog', 'loris'], time: 80, label: 'Take a kopi in a bag to each uncle at the chess table and the bird-singing corner' }], 75);
+    case 'amk-kopi': return S([{ t: 'rounds', act: 'serve', item: 'bs-kopi', what: 'kopi in a bag', drops: [BS(36, 6), BS(41, 6), BS(47, 6), BS(50, 4), BS(44, 8)], who: ['goose', 'turtle', 'cat', 'hedgehog', 'loris'], time: 80, label: 'Take a kopi in a bag to each uncle at the chess table and the bird-singing corner' }], 75);
     case 'pcn-loop': return S([{ t: 'ride', kind: 'bike', near: 'pg-bikes', label: 'Take a bicycle from the rack by Punggol station (E)' }, { t: 'race', ride: 'bike', time: 70, marks: [PG(12, 14), PG(2, 14), PG(2, 5), PG(2, 14), PG(23, 14), PG(23, 28), PG(23, 16)], label: 'Ride the park connector loop: up to Punggol Point, back, and down to Lorong Halus' }], 75);
     case 'kayak-loop': return S([{ t: 'ride', kind: 'kayak', near: 'lagoon', label: 'Take Kak Lumba’s kayak at the lagoon beach (E)' }, { t: 'race', ride: 'kayak', time: 100, marks: [I(37, 18), I(40, 21), I(43, 14), I(43, 5), I(39, 1), I(43, 8), I(41, 21), I(37, 16)], label: 'Paddle out of the lagoon and round every buoy off Lazarus Island, then back in' }], 75);
     case 'causeway-kopi': return S([{ t: 'rounds', act: 'serve', item: 'kr-kopi', what: 'kopi', drops: [KR(23, 9), KR(23, 6), KR(23, 2), KR(28, 8), KR(28, 3)], who: ['goose', 'dog', 'rabbit', 'tabby', 'duck'], time: 80, label: 'Hand a kopi in a plastic bag to each driver leaning out of the Causeway jam' }], 75);

diff --git a/lib/jade-props.ts b/lib/jade-props.ts
@@ -96,9 +96,9 @@ export const PROPS: PropDef[] = [
   P('coneykiosk', 'Coney Island Drinks Kiosk', 'bubut', 'punggol', [163, 134], 1100, 0.9, 13, 'food'),
   P('kayakhire', 'Waterway Kayak Hire', 'berang', 'punggol', [158, 152], 2000, 0.8, 15, 'kayak'),
   // the twenty-sixth pass: Bishan and Ang Mo Kio
-  P('hokkienmee', 'Auntie Puyuh’s Hokkien Mee', 'puyuh', 'bishan', [199, 135], 1800, 1.0, 14, 'food'),
+  P('hokkienmee', 'Auntie Puyuh’s Hokkien Mee', 'puyuh', 'bishan', [199, 136], 1800, 1.0, 14, 'food'),
   P('birdkopi', 'Kebun Baru Bird-Singing Kopi', 'merbok', 'bishan', [226, 136], 1200, 0.9, 13, 'food'),
-  P('parkhire', 'Bishan Park Bike Hire', 'kura', 'bishan', [221, 155], 2000, 0.8, 15, 'shop'),
+  P('parkhire', 'Bishan Park Bike Hire', 'kura', 'bishan', [221, 154], 2000, 0.8, 15, 'shop'),
 ];
 /** the first eleven, kept as they were placed, with the kind of trade each is */
 export const STALL_KIND: Record<string, PropKind> = { noodle: 'food', cake: 'food', tea: 'food', fan: 'shop', jade: 'shop', claw: 'shop', ckt: 'food', chicken: 'food', satay: 'food', laksa: 'food', kopi: 'food' };

diff --git a/docs/jade-street-art/jobs26.py b/docs/jade-street-art/jobs26.py
@@ -123,6 +123,10 @@ J['props26b'] = (L, SREF + ['props1.png', 'props21.png', 'props25b.png'], STYLE 
   "a dab of red sambal chilli; (6) a WEDDING BERKAT gift: a little woven basket with a red-dyed egg on a gold paper flower, wrapped "
   "in clear cellophane with a gold ribbon; (7) an old SURVEYOR'S FIELD BOOK: a small worn brown leather notebook tied with a cord, "
   "closed, blank cover; (8) a long glossy black KOEL tail FEATHER. No text anywhere. " + MAG)
+J['props26d'] = (SQ, SREF + ['props1.png', 'props21.png', 'props25b.png'], STYLE + SG + BSH + PROP + "ONE item, centred, "
+  "filling about half the image: a KOPI IN A BAG, the coffee-shop takeaway of Singapore: a small CLEAR PLASTIC BAG full of milky "
+  "brown kopi and a few ice cubes, a pink straw poking out of the knot at the top, tied with a loop of red RAFFIA STRING for a "
+  "handle, a few beads of condensation on the plastic. One connected object. No text anywhere. " + MAG)
 J['props26c'] = (L, SREF + ['props1.png', 'props25c.png', 'traffic.png'], STYLE + SG + BSH + "A 2 by 1 grid of two separate large "
   "items, each centred in its own half of the image and filling most of it. (1) LEFT half: a BISHAN PARK FOOTBRIDGE over the river "
   "seen from DIRECTLY ABOVE (strict bird's-eye top-down view, like a map): a straight timber footbridge running straight UP and DOWN "

diff --git a/scripts/jade-art26.py b/scripts/jade-art26.py
@@ -137,6 +137,8 @@ PA = {'bs-koelcamp': 120, 'bs-birdpole': 60, 'bs-raintree': 104, 'bs-chess': 72,
 each('atlas-bishan', 'props26a', list(PA), 3, 2, PA, fix=unspill_mag)
 PB = {'bs-stonehi': 62, 'bs-stonelo': 62, 'bs-survey': 34, 'bs-cage': 36, 'bs-mee': 40, 'bs-berkat': 36, 'bs-book': 36, 'bs-feather': 36}
 each('atlas-bishan', 'props26b', list(PB), 4, 2, PB)
+# the kopi in a bag the Ang Mo Kio kopi round carries (a sheet of its own)
+each('atlas-bishan', 'props26d', ['bs-kopi'], 1, 1, {'bs-kopi': 32})
 # the footbridge (top-down, a ground layer, 140 long: measured by height, it runs up the sheet) and the old stone bridge
 each('atlas-bishan', 'props26c', [None, 'bs-oldbridge'], 2, 1, {'bs-oldbridge': 120})
 _fb = cells('props26c', 2, 1)[0]; put('atlas-bishan', 'bs-footbridge', scaled(_fb, 140 * PX / _fb.shape[0]))
